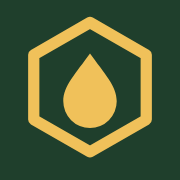
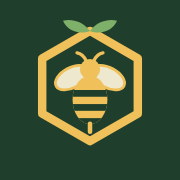
Add files via upload

Changed region(s): [[0.1389, 0.0833, 0.8611, 0.8889]]

diff --git a/index.html b/index.html
@@ -37,7 +37,7 @@
     "name": "Shri Ganesh Apiaries and Honey Farm",
     "address": {"@type": "PostalAddress", "streetAddress": "Village Mursan, Tehsil Hathras", "addressLocality": "Hathras", "addressRegion": "Uttar Pradesh", "postalCode": "204101", "addressCountry": "IN"}
   },
-  "size": ["400 g", "800 g", "1050 g"]
+  "size": ["400 g", "800 g", "1000 g"]
 }
 </script>
 <link rel="preconnect" href="https://fonts.googleapis.com">
@@ -80,6 +80,10 @@ section{padding:clamp(64px,8vw,104px) 0}
 header{position:sticky;top:0;z-index:20;background:rgba(250,246,236,.96);border-bottom:1px solid var(--line)}
 header .wrap{display:flex;align-items:center;justify-content:space-between;height:68px;gap:1rem}
 .logo{font-family:var(--serif);font-weight:700;font-size:1.6rem;letter-spacing:.12em;color:var(--green);text-decoration:none;line-height:1.1}
+.logo{display:inline-flex;align-items:center;gap:.65rem}
+.logo .mark{width:44px;height:44px;flex:none;border-radius:12px;box-shadow:0 6px 16px -8px rgba(31,63,44,.6);transition:transform .4s cubic-bezier(.2,.7,.2,1)}
+.logo:hover .mark{transform:rotate(-8deg) scale(1.05)}
+footer .logo .mark{box-shadow:0 0 0 1px rgba(240,193,90,.35)}
 .logo small{display:block;font-family:var(--sans);font-size:.62rem;letter-spacing:.28em;color:var(--honey-dark);font-weight:600}
 nav ul{display:flex;gap:1.7rem;list-style:none;font-size:.93rem}
 nav a{text-decoration:none;color:var(--muted)}nav a:hover{color:var(--green)}
@@ -375,15 +379,19 @@ main img{cursor:zoom-in}
 .agrid figcaption b{display:block;font-family:var(--serif);color:#f3cd73;font-size:1.15rem;margin-bottom:.15rem}
 @media (max-width:900px){.agrid{grid-template-columns:repeat(2,minmax(0,1fr));grid-auto-rows:200px}}
 @media (max-width:600px){.agrid{grid-auto-rows:150px;gap:.6rem;margin-top:1.4rem}.agrid figure{border-radius:12px}.agrid figcaption{padding:1.6rem .7rem .6rem;font-size:.72rem}.agrid figcaption b{font-size:.92rem}.agrid .big figcaption,.agrid .band figcaption{font-size:.8rem}.apiary .head{gap:.4rem}.agrid figure:not(.big):not(.band) figcaption{font-size:0}.agrid figure:not(.big):not(.band) figcaption b{margin:0}}
+
+/* touch targets: at least 44px tall on every tap target */
+header .btn,.sizes a{min-height:44px;display:inline-flex;align-items:center}
+.menu{min-height:44px;min-width:44px}
 </style>
 </head>
 <body>
 
-<svg width="0" height="0" style="position:absolute" aria-hidden="true"><symbol id="wa" viewBox="0 0 24 24"><path fill="currentColor" d="M17.5 14.4c-.3-.1-1.8-.9-2-1-.3-.1-.5-.1-.7.1-.2.3-.8 1-.9 1.2-.2.2-.3.2-.6.1-.3-.1-1.3-.5-2.4-1.5-.9-.8-1.5-1.8-1.7-2.1-.2-.3 0-.5.1-.6l.4-.5c.2-.2.2-.3.3-.5.1-.2 0-.4 0-.5l-.9-2.2c-.2-.6-.5-.5-.7-.5h-.6c-.2 0-.5.1-.8.4-.3.3-1 1-1 2.5s1.1 2.9 1.2 3.1c.1.2 2.1 3.2 5.1 4.5.7.3 1.3.5 1.7.6.7.2 1.4.2 1.9.1.6-.1 1.8-.7 2-1.4.2-.7.2-1.3.2-1.4-.1-.1-.3-.2-.6-.3zM12 21.8c-1.8 0-3.5-.5-5-1.4l-.4-.2-3.7 1 1-3.6-.2-.4A9.8 9.8 0 0 1 2.2 12C2.2 6.6 6.6 2.2 12 2.2S21.8 6.6 21.8 12 17.4 21.8 12 21.8zM12 0C5.4 0 0 5.4 0 12c0 2.1.6 4.2 1.6 6L0 24l6.2-1.6c1.8 1 3.8 1.5 5.8 1.5 6.6 0 12-5.4 12-12S18.6 0 12 0z"/></symbol></svg>
+<svg width="0" height="0" style="position:absolute" aria-hidden="true"><symbol id="mark" viewBox="0 0 64 64"><defs><clipPath id="bvBody"><ellipse cx="32" cy="35.5" rx="6.2" ry="8.6"/></clipPath></defs><rect width="64" height="64" rx="16" fill="#1f3f2c"/><path d="M32 11l17 9.8v19.6L32 50.2 15 40.4V20.8z" fill="none" stroke="#f0c15a" stroke-width="3" stroke-linejoin="round"/><g fill="#fff6dc" fill-opacity=".92" stroke="#f0c15a" stroke-width="1"><ellipse cx="25.6" cy="27.6" rx="6.4" ry="3.6" transform="rotate(-28 25.6 27.6)"/><ellipse cx="38.4" cy="27.6" rx="6.4" ry="3.6" transform="rotate(28 38.4 27.6)"/></g><ellipse cx="32" cy="35.5" rx="6.2" ry="8.6" fill="#f0c15a"/><g clip-path="url(#bvBody)" fill="#1f3f2c"><rect x="24" y="32" width="16" height="2.4"/><rect x="24" y="37" width="16" height="2.4"/><rect x="24" y="42" width="16" height="2.4"/></g><path d="M32 44v2.8" stroke="#f0c15a" stroke-width="1.6" stroke-linecap="round"/><circle cx="32" cy="24.6" r="3.6" fill="#f0c15a"/><path d="M30.6 21.6c-.8-1.8-2-2.6-3.2-2.8M33.4 21.6c.8-1.8 2-2.6 3.2-2.8" stroke="#f0c15a" stroke-width="1.2" stroke-linecap="round" fill="none"/><path d="M32 11c-2.6-3.4-6.6-4.4-9.6-3.6 1.4 3.2 5.2 5.2 9.6 3.6zM32 11c2.6-3.4 6.6-4.4 9.6-3.6-1.4 3.2-5.2 5.2-9.6 3.6z" fill="#7fb069"/></symbol><symbol id="wa" viewBox="0 0 24 24"><path fill="currentColor" d="M17.5 14.4c-.3-.1-1.8-.9-2-1-.3-.1-.5-.1-.7.1-.2.3-.8 1-.9 1.2-.2.2-.3.2-.6.1-.3-.1-1.3-.5-2.4-1.5-.9-.8-1.5-1.8-1.7-2.1-.2-.3 0-.5.1-.6l.4-.5c.2-.2.2-.3.3-.5.1-.2 0-.4 0-.5l-.9-2.2c-.2-.6-.5-.5-.7-.5h-.6c-.2 0-.5.1-.8.4-.3.3-1 1-1 2.5s1.1 2.9 1.2 3.1c.1.2 2.1 3.2 5.1 4.5.7.3 1.3.5 1.7.6.7.2 1.4.2 1.9.1.6-.1 1.8-.7 2-1.4.2-.7.2-1.3.2-1.4-.1-.1-.3-.2-.6-.3zM12 21.8c-1.8 0-3.5-.5-5-1.4l-.4-.2-3.7 1 1-3.6-.2-.4A9.8 9.8 0 0 1 2.2 12C2.2 6.6 6.6 2.2 12 2.2S21.8 6.6 21.8 12 17.4 21.8 12 21.8zM12 0C5.4 0 0 5.4 0 12c0 2.1.6 4.2 1.6 6L0 24l6.2-1.6c1.8 1 3.8 1.5 5.8 1.5 6.6 0 12-5.4 12-12S18.6 0 12 0z"/></symbol></svg>
 
 <header>
   <div class="wrap">
-    <a href="#top" class="logo">BEEVORA<small>KIKAR HONEY</small></a>
+    <a href="#top" class="logo" aria-label="Beevora Kikar Honey, back to top"><svg class="mark" aria-hidden="true"><use href="#mark"/></svg><span>BEEVORA<small>KIKAR HONEY</small></span></a>
     <nav aria-label="Main">
       <ul id="menu">
         <li><a href="#origin">Origin</a></li>
@@ -426,7 +434,7 @@ main img{cursor:zoom-in}
       <div class="feat rise" style="--d:.8s"><i><svg viewBox="0 0 24 24" fill="none" stroke="currentColor" stroke-width="2" stroke-linecap="round" stroke-linejoin="round" aria-hidden="true"><path d="M3 21V8l9-5 9 5v13M9 21v-7h6v7"/></svg></i><div><b>Direct from our apiary</b><span>Packed by Shri Ganesh Apiaries</span></div></div>
     </div>
   </div>
-  <div class="wrap sizes rise" style="--d:.9s"><a href="#packs">400 g</a><a class="on" href="#packs">800 g · Most popular</a><a href="#packs">1050 g</a></div>
+  <div class="wrap sizes rise" style="--d:.9s"><a href="#packs">400 g</a><a class="on" href="#packs">800 g · Most popular</a><a href="#packs">1000 g</a></div>
 </section>
 
 <div class="ribbon" aria-label="Single ingredient, no additives, no preservatives, raw and minimally processed, FSSAI licensed, made in India"><div class="track"><ul><li><svg viewBox="0 0 24 24" fill="none" stroke="currentColor" stroke-width="2" stroke-linecap="round" stroke-linejoin="round"><path d="M5 12l5 5 9-10"/></svg>Single Ingredient</li><li><svg viewBox="0 0 24 24" fill="none" stroke="currentColor" stroke-width="2" stroke-linecap="round" stroke-linejoin="round"><path d="M4 4l16 16M12 3a9 9 0 1 0 0 18 9 9 0 0 0 0-18"/></svg>No Additives</li><li><svg viewBox="0 0 24 24" fill="none" stroke="currentColor" stroke-width="2" stroke-linecap="round" stroke-linejoin="round"><path d="M4 4l16 16M9 3h6M10 3v6l-5 9a2 2 0 0 0 2 3h10a2 2 0 0 0 2-3l-5-9V3"/></svg>No Preservatives</li><li><svg viewBox="0 0 24 24" fill="none" stroke="currentColor" stroke-width="2" stroke-linecap="round" stroke-linejoin="round"><path d="M12 3c-3 4-6 7-6 11a6 6 0 0 0 12 0c0-4-3-7-6-11z"/></svg>Raw &amp; Minimally Processed</li><li><svg viewBox="0 0 24 24" fill="none" stroke="currentColor" stroke-width="2" stroke-linecap="round" stroke-linejoin="round"><path d="M12 2l8 3v6c0 5-3.5 9-8 11-4.5-2-8-6-8-11V5z"/></svg>FSSAI Licensed</li><li><svg viewBox="0 0 24 24" fill="none" stroke="currentColor" stroke-width="2" stroke-linecap="round" stroke-linejoin="round"><path d="M12 21s-7-5.5-7-11a7 7 0 0 1 14 0c0 5.5-7 11-7 11zM12 12.5a2.5 2.5 0 1 0 0-5 2.5 2.5 0 0 0 0 5"/></svg>Made in India</li><li><svg viewBox="0 0 24 24" fill="none" stroke="currentColor" stroke-width="2" stroke-linecap="round" stroke-linejoin="round"><path d="M12 8a2 2 0 1 0 0 .01M7 11a2 2 0 1 0 0 .01M17 11a2 2 0 1 0 0 .01M9 16a2 2 0 1 0 0 .01M15 16a2 2 0 1 0 0 .01"/></svg>From Kikar Blossoms</li></ul><ul aria-hidden="true"><li><svg viewBox="0 0 24 24" fill="none" stroke="currentColor" stroke-width="2" stroke-linecap="round" stroke-linejoin="round"><path d="M5 12l5 5 9-10"/></svg>Single Ingredient</li><li><svg viewBox="0 0 24 24" fill="none" stroke="currentColor" stroke-width="2" stroke-linecap="round" stroke-linejoin="round"><path d="M4 4l16 16M12 3a9 9 0 1 0 0 18 9 9 0 0 0 0-18"/></svg>No Additives</li><li><svg viewBox="0 0 24 24" fill="none" stroke="currentColor" stroke-width="2" stroke-linecap="round" stroke-linejoin="round"><path d="M4 4l16 16M9 3h6M10 3v6l-5 9a2 2 0 0 0 2 3h10a2 2 0 0 0 2-3l-5-9V3"/></svg>No Preservatives</li><li><svg viewBox="0 0 24 24" fill="none" stroke="currentColor" stroke-width="2" stroke-linecap="round" stroke-linejoin="round"><path d="M12 3c-3 4-6 7-6 11a6 6 0 0 0 12 0c0-4-3-7-6-11z"/></svg>Raw &amp; Minimally Processed</li><li><svg viewBox="0 0 24 24" fill="none" stroke="currentColor" stroke-width="2" stroke-linecap="round" stroke-linejoin="round"><path d="M12 2l8 3v6c0 5-3.5 9-8 11-4.5-2-8-6-8-11V5z"/></svg>FSSAI Licensed</li><li><svg viewBox="0 0 24 24" fill="none" stroke="currentColor" stroke-width="2" stroke-linecap="round" stroke-linejoin="round"><path d="M12 21s-7-5.5-7-11a7 7 0 0 1 14 0c0 5.5-7 11-7 11zM12 12.5a2.5 2.5 0 1 0 0-5 2.5 2.5 0 0 0 0 5"/></svg>Made in India</li><li><svg viewBox="0 0 24 24" fill="none" stroke="currentColor" stroke-width="2" stroke-linecap="round" stroke-linejoin="round"><path d="M12 8a2 2 0 1 0 0 .01M7 11a2 2 0 1 0 0 .01M17 11a2 2 0 1 0 0 .01M9 16a2 2 0 1 0 0 .01M15 16a2 2 0 1 0 0 .01"/></svg>From Kikar Blossoms</li></ul></div></div>
@@ -476,10 +484,10 @@ main img{cursor:zoom-in}
       <p class="lead reveal" style="--d:.2s">Every jar of Beevora comes from our own hives at Shri Ganesh Apiaries and Honey Farm. Here is how the honey is cared for, from bee box to bucket.</p>
     </div>
     <div class="agrid">
-      <figure class="big reveal" style="--d:0.1s"><img src="assets/apiary-beekeeper.jpg" srcset="assets/apiary-beekeeper-800.webp 800w, assets/apiary-beekeeper.jpg 1448w" sizes="(max-width:600px) 100vw, 600px" decoding="async" width="1448" height="1086" alt="A beekeeper in a bee veil holding a hive frame covered with bees, with rows of bee boxes behind him" loading="lazy"><figcaption><b>Our beekeeper at work</b>Checking a hive frame full of bees and fresh honey in the open fields.</figcaption></figure>
-      <figure class="tall reveal" style="--d:0.2s"><img src="assets/apiary-colony.webp" srcset="assets/apiary-colony-800.webp 800w, assets/apiary-colony.webp 1086w" sizes="(max-width:600px) 260px, 600px" decoding="async" width="1086" height="1448" alt="A dense cluster of honeybees inside a hive" loading="lazy"><figcaption><b>Healthy colonies</b>Thousands of worker bees cluster together inside one of our hives.</figcaption></figure>
+      <figure class="big reveal" style="--d:0.1s"><img src="assets/beekeeper-farm.webp" srcset="assets/beekeeper-farm-800.webp 800w, assets/beekeeper-farm.webp 1086w" sizes="(max-width:600px) 100vw, 600px" decoding="async" style="object-position:50% 0%" width="1086" height="1448" alt="Our beekeeper in a bee veil holding a hive frame covered with bees, with rows of bee boxes and a mustard field behind" loading="lazy"><figcaption><b>Our beekeeper at work</b>Checking a hive frame full of bees and fresh honey at our apiary.</figcaption></figure>
+      <figure class="tall reveal" style="--d:0.2s"><img src="assets/harvest-farm.webp" srcset="assets/harvest-farm-800.webp 800w, assets/harvest-farm.webp 1086w" sizes="(max-width:600px) 260px, 600px" decoding="async" style="object-position:50% 55%" width="1086" height="1448" alt="Our two beekeepers uncapping honeycomb frames beside a honey extractor, under a protective net at the apiary" loading="lazy"><figcaption><b>Harvest day</b>Our team slices the wax caps off ripe frames, then spins the honey out in the extractor.</figcaption></figure>
       <figure class="reveal" style="--d:0.25s"><img src="assets/apiary-hives.webp" srcset="assets/apiary-hives-800.webp 800w, assets/apiary-hives.webp 1448w" sizes="(max-width:600px) 260px, 600px" decoding="async" width="1448" height="1086" alt="Rows of white bee boxes under green trees in an open field" loading="lazy"><figcaption><b>Hives among the trees</b>Rows of bee boxes are set out under the trees during the flowering season.</figcaption></figure>
-      <figure class="reveal" style="--d:0.3s"><img src="assets/apiary-harvest.jpg" srcset="assets/apiary-harvest-800.webp 800w, assets/apiary-harvest.jpg 1448w" sizes="(max-width:600px) 260px, 600px" decoding="async" width="1448" height="1086" alt="Two beekeepers uncapping honeycomb frames next to a honey extractor under a protective net" loading="lazy"><figcaption><b>Harvest day</b>Wax caps are sliced off ripe frames before the honey is spun out in the extractor.</figcaption></figure>
+      <figure class="reveal" style="--d:0.3s"><img src="assets/apiary-colony.webp" srcset="assets/apiary-colony-800.webp 800w, assets/apiary-colony.webp 1086w" sizes="(max-width:600px) 260px, 600px" decoding="async" width="1086" height="1448" alt="A dense cluster of honeybees inside a hive" loading="lazy"><figcaption><b>Healthy colonies</b>Thousands of worker bees cluster together inside one of our hives.</figcaption></figure>
       <figure class="band reveal" style="--d:0.35s"><img src="assets/apiary-storage.webp" srcset="assets/apiary-storage-800.webp 800w, assets/apiary-storage.webp 1447w" sizes="(max-width:600px) 100vw, 1200px" decoding="async" style="object-position:50% 45%" width="1447" height="1087" alt="Rows of sealed white honey buckets stored in a clean room" loading="lazy"><figcaption><b>Stored with care</b>Filtered honey rests in sealed food-grade containers before it is packed into jars.</figcaption></figure>
     </div>
   </div>
@@ -564,7 +572,7 @@ main img{cursor:zoom-in}
     <div class="packs">
       <div class="pack reveal"><div class="img"><img src="assets/hero.webp" srcset="assets/hero-800.webp 800w, assets/hero.webp 1254w" sizes="(max-width:600px) 260px, 600px" decoding="async" width="1254" height="1254" alt="Beevora Kikar Honey jar" loading="lazy"></div><div class="body"><div class="row"><span class="w">400 g</span><span class="price">Price on WhatsApp</span></div><p>Try it first</p><a class="btn btn-line" data-wa="Hello, I would like to order Beevora Kikar Honey 400 g. Please share the price and delivery details." href="#enquire">Order on WhatsApp</a></div></div>
       <div class="pack pop reveal"><span class="tag">MOST POPULAR</span><div class="img"><img src="assets/hero.webp" srcset="assets/hero-800.webp 800w, assets/hero.webp 1254w" sizes="(max-width:600px) 260px, 600px" decoding="async" width="1254" height="1254" alt="Beevora Kikar Honey jar" loading="lazy"></div><div class="body"><div class="row"><span class="w">800 g</span><span class="price">Price on WhatsApp</span></div><p>Family pack, our most chosen size</p><a class="btn btn-gold" data-wa="Hello, I would like to order Beevora Kikar Honey 800 g. Please share the price and delivery details." href="#enquire"><svg aria-hidden="true"><use href="#wa"/></svg>Order on WhatsApp</a></div></div>
-      <div class="pack reveal"><div class="img"><img src="assets/hero.webp" srcset="assets/hero-800.webp 800w, assets/hero.webp 1254w" sizes="(max-width:600px) 260px, 600px" decoding="async" width="1254" height="1254" alt="Beevora Kikar Honey jar" loading="lazy"></div><div class="body"><div class="row"><span class="w">1050 g</span><span class="price">Price on WhatsApp</span></div><p>Best value for daily use</p><a class="btn btn-line" data-wa="Hello, I would like to order Beevora Kikar Honey 1050 g. Please share the price and delivery details." href="#enquire">Order on WhatsApp</a></div></div>
+      <div class="pack reveal"><div class="img"><img src="assets/hero.webp" srcset="assets/hero-800.webp 800w, assets/hero.webp 1254w" sizes="(max-width:600px) 260px, 600px" decoding="async" width="1254" height="1254" alt="Beevora Kikar Honey jar" loading="lazy"></div><div class="body"><div class="row"><span class="w">1000 g</span><span class="price">Price on WhatsApp</span></div><p>Best value for daily use</p><a class="btn btn-line" data-wa="Hello, I would like to order Beevora Kikar Honey 1000 g. Please share the price and delivery details." href="#enquire">Order on WhatsApp</a></div></div>
     </div>
   </div>
 </section>
@@ -598,7 +606,7 @@ main img{cursor:zoom-in}
         <label>City<input name="city" required autocomplete="address-level2"></label>
       </div>
       <div class="row">
-        <label>Pack size<select name="size"><option>400 g</option><option selected>800 g</option><option>1050 g</option></select></label>
+        <label>Pack size<select name="size"><option>400 g</option><option selected>800 g</option><option>1000 g</option></select></label>
         <label>Quantity<input name="qty" type="number" min="1" max="99" value="1" required></label>
       </div>
       <label>Message (optional)<textarea name="msg" rows="3"></textarea></label>
@@ -611,7 +619,7 @@ main img{cursor:zoom-in}
 <footer>
   <div class="wrap">
     <div class="cols">
-      <div><a href="#top" class="logo">BEEVORA</a><p style="margin-top:.6rem">Kikar Honey · Raw Honey · Minimally Processed.<br>Goodness of Honey for a Healthier Tomorrow.</p></div>
+      <div><a href="#top" class="logo"><svg class="mark" aria-hidden="true"><use href="#mark"/></svg><span>BEEVORA</span></a><p style="margin-top:.6rem">Kikar Honey · Raw Honey · Minimally Processed.<br>Goodness of Honey for a Healthier Tomorrow.</p></div>
       <div><h4>PACKED &amp; MARKETED BY</h4><p>Shri Ganesh Apiaries and Honey Farm<br>Village Mursan, Tehsil Hathras,<br>District Hathras, Uttar Pradesh 204101</p></div>
     </div>
     <div class="bottom"><span>© <span id="yr">2026</span> Beevora · Made in India · FSSAI Lic. No. 22226097000245</span><span>Not a medicine, just traditional practice.</span></div>
